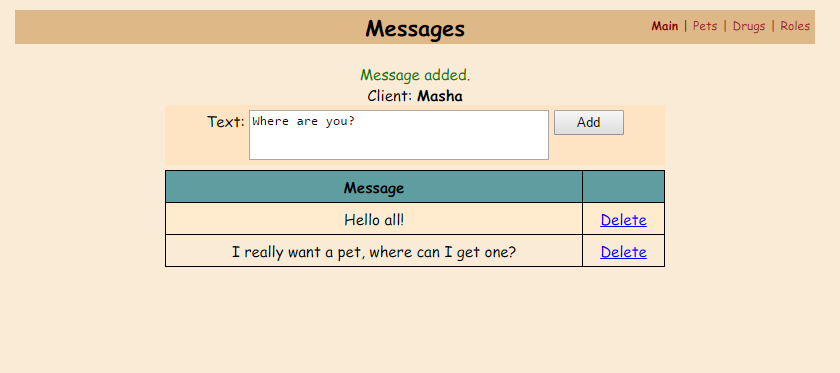
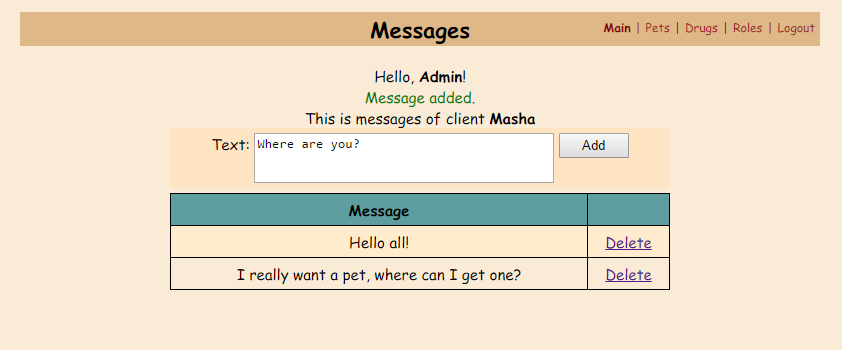
Add sorting roles by id. Add exec plugin to run InitTool. Update README file and screenshots.

diff --git a/src/main/java/ru/lightstar/clinic/persistence/jdbc/JdbcRoleService.java b/src/main/java/ru/lightstar/clinic/persistence/jdbc/JdbcRoleService.java
@@ -20,7 +20,7 @@ public class JdbcRoleService extends JdbcService implements RoleService {
      * SQL used to get all roles from database.
      */
     public static final String ALL_ROLES_SQL =
-            "SELECT * FROM role";
+            "SELECT * FROM role ORDER BY id";
 
     /**
      * SQL used to get role by name from database.

diff --git a/src/main/java/ru/lightstar/clinic/persistence/hibernate/HibernateRoleService.java b/src/main/java/ru/lightstar/clinic/persistence/hibernate/HibernateRoleService.java
@@ -28,7 +28,7 @@ public class HibernateRoleService implements RoleService {
     /**
      * HQL used to get all roles from database.
      */
-    public static final String ALL_ROLES_HQL = "from Role";
+    public static final String ALL_ROLES_HQL = "from Role order by id";
 
     /**
      * HQL used to get role by name from database.

diff --git a/README.md b/README.md
@@ -7,11 +7,21 @@
 
 Для запуска нужно создать war-файл командой `mvn package`, а затем развернуть его на сервере *Apache Tomcat*.
 
-Следует иметь ввиду, что сборка данного проекта зависит от базового проекта **"Клиника домашних питомцев"**, который
-предварительно должен быть добавлен в локальный репозиторий maven командой `mvn install`.
+Следует иметь ввиду, что сборка данного проекта зависит от базовых классов проекта **"Клиника домашних питомцев"**,
+который предварительно должен быть добавлен в локальный репозиторий maven командой `mvn install`.
 
-Также для работы данного проекта необходима рабочая база данных MySQL, параметры которой настраиваются в файле
-`src/main/resources/jdbc.properties`, а требуемая схема описана в `sql/clinic.sql`.
+Также для работы необходима рабочая база данных MySQL, параметры которой настраиваются в файлах
+`src/main/resources/jdbc.properties` и `src/main/resources/hibernate.cfg.xml`, а требуемая схема описана в файле
+`sql/clinic.sql`, содержимое которого следует выполнить в клиенте mysql.
+
+Перед первым запуском необходимо создать базу данных и заполнить ее первоначальными данными со
+списком ролей и аккаунтом админа. Для этого следует запустить класс *InitTool* командой `mvn exec:java`.
+Пароль клиента с именем *Admin* и правами администратора установлен равным *qwerty*, который затем после входа
+можно сменить.
+
+Всего в проекте предусмотрена поддержка трех ролей: *admin*, *manager* и *client*. Клиент может видеть только свои
+данные и своего питомца, а менеджер может видеть и управлять всеми данными за исключением списка ролей и аккаунтов
+админов. Админы же могут все.
 
 **Список клиентов с питомцами:**
 
@@ -52,3 +62,11 @@
 **Сообщения:**
 
 ![Screenshot](img/screenshot10.png)
+
+**Логин:**
+
+![Screenshot](img/screenshot11.png)
+
+**Доступ запрещен:**
+
+![Screenshot](img/screenshot12.png)
